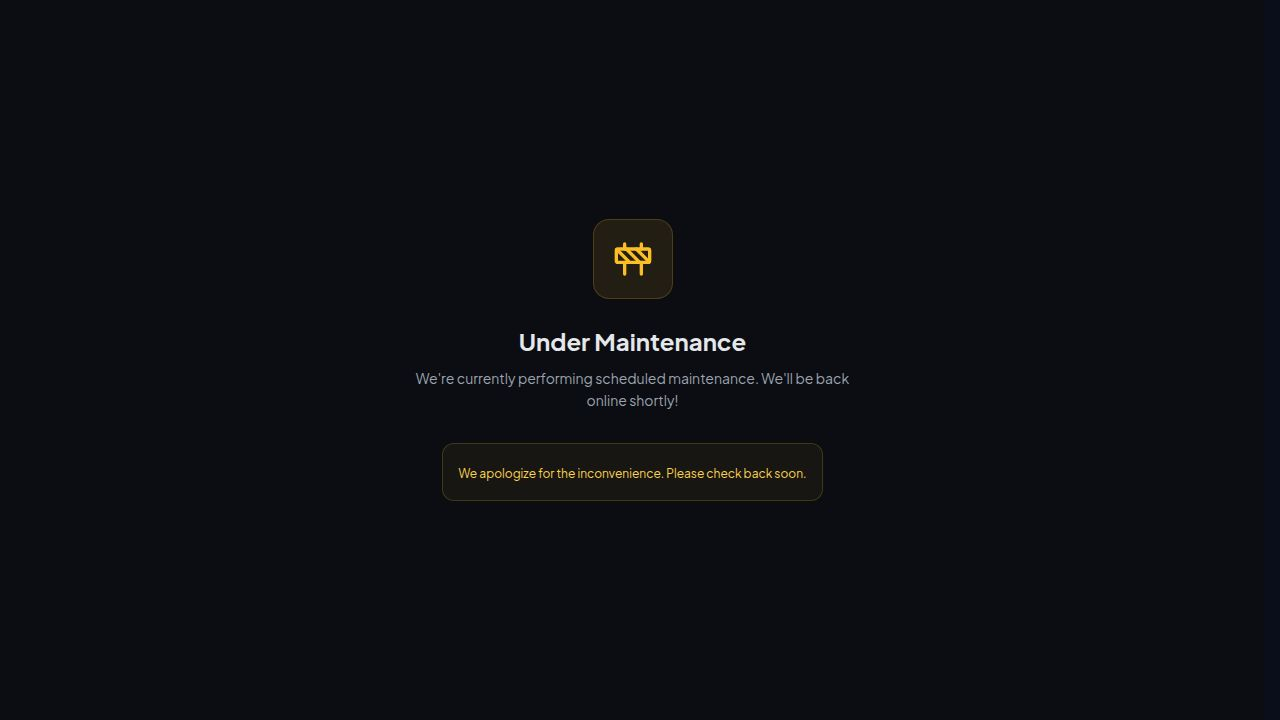
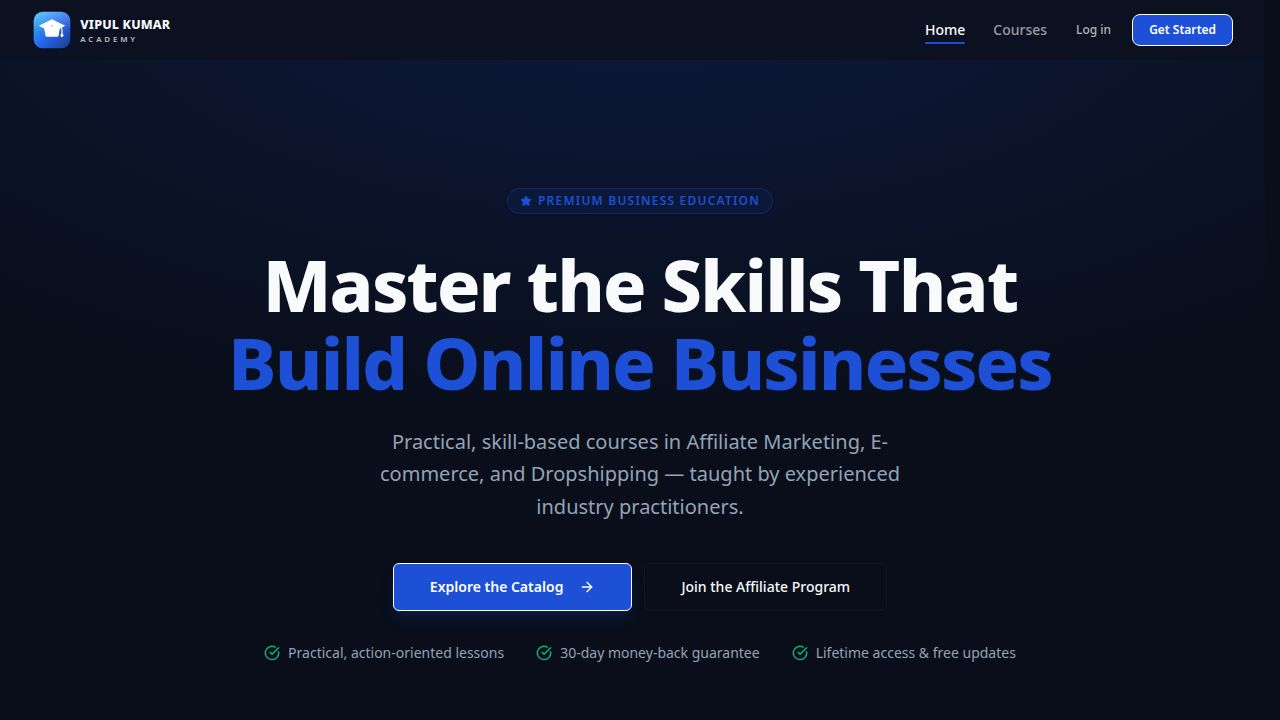
Improve payment processing by ensuring commissions are always recorded and preventing duplicate transactions
Add idempotency guards and adjust commission recording logic in payment processing endpoints to handle various scenarios and prevent duplicate entries.

Replit-Commit-Author: Agent
Replit-Commit-Session-Id: bd173057-3502-44aa-9822-04e49475a39a
Replit-Commit-Checkpoint-Type: full_checkpoint
Replit-Commit-Event-Id: 5e8c8ccf-75a7-4090-9568-b005231e382d
Replit-Commit-Screenshot-Url: https://storage.googleapis.com/screenshot-production-us-central1/b5dfa7cf-5fbc-4e71-b599-c2894df81339/bd173057-3502-44aa-9822-04e49475a39a/jWOYf8j
Replit-Helium-Checkpoint-Created: true

diff --git a/artifacts/api-server/src/routes/payments.ts b/artifacts/api-server/src/routes/payments.ts
@@ -389,6 +389,17 @@ router.post("/verify", requireAuth, async (req, res): Promise<void> => {
   const [payment] = await db.select().from(paymentsTable).where(and(eq(paymentsTable.sessionId, sessionId), eq(paymentsTable.userId, authedReq.user.userId))).limit(1);
   if (!payment) { res.status(404).json({ error: "Payment session not found" }); return; }
 
+  // Idempotency: this exact payment session was already processed (commission,
+  // enrollment, notifications all done). Returning early prevents double-recording
+  // commission / sending duplicate emails on accidental re-verifies.
+  if (payment.status === "completed") {
+    const [ex] = await db.select().from(enrollmentsTable)
+      .where(and(eq(enrollmentsTable.userId, authedReq.user.userId), eq(enrollmentsTable.courseId, payment.courseId)))
+      .limit(1);
+    res.json({ success: true, enrollmentId: ex?.id ?? null, message: "Payment already verified" });
+    return;
+  }
+
   await db.update(paymentsTable).set({ status: "completed", paymentId: `sim_${nanoid(12)}` }).where(eq(paymentsTable.id, payment.id));
   generateGstInvoice(payment.id).catch(() => {});
 
@@ -404,11 +415,14 @@ router.post("/verify", requireAuth, async (req, res): Promise<void> => {
       triggerAutomation("purchase", buyer.id, buyer.email, { name: buyer.name, email: buyer.email, course_name: course?.title ?? "", amount: String(parseFloat(String(payment.amount)).toFixed(2)) }).catch(() => {});
       triggerFunnel("new_purchase", buyer.id, { course_name: course?.title ?? "", amount: String(parseFloat(String(payment.amount)).toFixed(2)) }).catch(() => {});
     }
-    await recordAffiliateCommission(payment.affiliateRef, authedReq.user.userId, payment.courseId, parseFloat(String(payment.amount)));
-    if (payment.courseId) await recordCreatorCommissions(payment, [payment.courseId]);
   } else {
     enrollmentId = existing[0].id;
   }
+  // Affiliate + creator commissions must run on EVERY successful payment, even
+  // when the buyer is already enrolled (e.g. re-purchasing the same course).
+  // Outer status==="completed" guard above prevents double-recording on retries.
+  await recordAffiliateCommission(payment.affiliateRef, authedReq.user.userId, payment.courseId, parseFloat(String(payment.amount)));
+  if (payment.courseId) await recordCreatorCommissions(payment, [payment.courseId]);
 
   if (payment.couponCode) {
     const [coupon] = await db.select().from(couponsTable).where(eq(couponsTable.code, payment.couponCode)).limit(1);
@@ -850,20 +864,23 @@ router.post("/cashfree/verify", async (req, res): Promise<void> => {
       const [existing] = await db.select().from(enrollmentsTable).where(and(eq(enrollmentsTable.userId, payment.userId), eq(enrollmentsTable.courseId, payment.courseId))).limit(1);
       if (!existing) {
         await db.insert(enrollmentsTable).values({ userId: payment.userId, courseId: payment.courseId });
-        const [course] = await db.select().from(coursesTable).where(eq(coursesTable.id, payment.courseId)).limit(1);
-        await db.insert(notificationsTable).values({ userId: payment.userId, title: "Enrollment Confirmed!", message: `You are now enrolled in ${course?.title ?? "the course"}`, type: "success" });
+        const [c0] = await db.select().from(coursesTable).where(eq(coursesTable.id, payment.courseId)).limit(1);
+        await db.insert(notificationsTable).values({ userId: payment.userId, title: "Enrollment Confirmed!", message: `You are now enrolled in ${c0?.title ?? "the course"}`, type: "success" });
         if (payment.couponCode) {
           const [coupon] = await db.select().from(couponsTable).where(eq(couponsTable.code, payment.couponCode)).limit(1);
           if (coupon) await db.update(couponsTable).set({ usedCount: coupon.usedCount + 1 }).where(eq(couponsTable.id, coupon.id));
         }
         const [buyer] = await db.select().from(usersTable).where(eq(usersTable.id, payment.userId)).limit(1);
-        if (buyer && course) {
-          triggerAutomation("purchase", buyer.id, buyer.email, { name: buyer.name, email: buyer.email, course_name: course.title, amount: String(parseFloat(String(payment.amount)).toFixed(2)) }).catch(() => {});
-          triggerFunnel("new_purchase", buyer.id, { course_name: course.title, amount: String(parseFloat(String(payment.amount)).toFixed(2)) }).catch(() => {});
+        if (buyer && c0) {
+          triggerAutomation("purchase", buyer.id, buyer.email, { name: buyer.name, email: buyer.email, course_name: c0.title, amount: String(parseFloat(String(payment.amount)).toFixed(2)) }).catch(() => {});
+          triggerFunnel("new_purchase", buyer.id, { course_name: c0.title, amount: String(parseFloat(String(payment.amount)).toFixed(2)) }).catch(() => {});
         }
-        await recordAffiliateCommission(payment.affiliateRef, payment.userId, payment.courseId, parseFloat(String(payment.amount)));
-        if (payment.courseId) await recordCreatorCommissions(payment, [payment.courseId]);
       }
+      // Commissions run on EVERY successful payment, even repeat purchases of
+      // the same course. The outer "payment already completed" check at the
+      // top of this handler prevents double-recording on duplicate callbacks.
+      await recordAffiliateCommission(payment.affiliateRef, payment.userId, payment.courseId, parseFloat(String(payment.amount)));
+      if (payment.courseId) await recordCreatorCommissions(payment, [payment.courseId]);
 
       const [course] = await db.select().from(coursesTable).where(eq(coursesTable.id, payment.courseId)).limit(1);
       res.json({ success: true, enrolled: true, courseId: payment.courseId, courseTitle: course?.title, amount: parseFloat(String(payment.amount)), currency: "INR" });
@@ -978,9 +995,12 @@ router.post("/cashfree/webhook", async (req, res): Promise<void> => {
         const [coupon] = await db.select().from(couponsTable).where(eq(couponsTable.code, payment.couponCode)).limit(1);
         if (coupon) await db.update(couponsTable).set({ usedCount: coupon.usedCount + 1 }).where(eq(couponsTable.id, coupon.id));
       }
-      await recordAffiliateCommission(payment.affiliateRef, payment.userId, payment.courseId, parseFloat(String(payment.amount)));
-      if (payment.courseId) await recordCreatorCommissions(payment, [payment.courseId]);
     }
+    // Commissions run on EVERY successful payment, even repeat purchases of
+    // the same course. The "payment.status === completed" guard at the top of
+    // this webhook handler prevents double-recording on duplicate webhooks.
+    await recordAffiliateCommission(payment.affiliateRef, payment.userId, payment.courseId, parseFloat(String(payment.amount)));
+    if (payment.courseId) await recordCreatorCommissions(payment, [payment.courseId]);
   }
   res.json({ received: true });
 });
@@ -1345,9 +1365,12 @@ async function completePaytmPayment(payment: typeof paymentsTable.$inferSelect, 
       triggerAutomation("purchase", buyer.id, buyer.email, { name: buyer.name, email: buyer.email, course_name: course.title, amount: String(parseFloat(String(payment.amount)).toFixed(2)) }).catch(() => {});
       triggerFunnel("new_purchase", buyer.id, { course_name: course.title, amount: String(parseFloat(String(payment.amount)).toFixed(2)) }).catch(() => {});
     }
-    await recordAffiliateCommission(payment.affiliateRef, payment.userId, payment.courseId, parseFloat(String(payment.amount)));
-    if (payment.courseId) await recordCreatorCommissions(payment, [payment.courseId]);
   }
+  // Commissions run on EVERY successful payment, even repeat purchases of
+  // the same course. completePaytmPayment is only invoked after the outer
+  // verify/callback guards confirm this payment wasn't already completed.
+  await recordAffiliateCommission(payment.affiliateRef, payment.userId, payment.courseId, parseFloat(String(payment.amount)));
+  if (payment.courseId) await recordCreatorCommissions(payment, [payment.courseId]);
 }
 
 // ── Paytm: Verify Payment status (called by frontend after redirect) ──────────
@@ -1881,10 +1904,13 @@ router.post("/stripe/verify", async (req, res): Promise<void> => {
         amount: String(parseFloat(String(payment.amount)).toFixed(2)),
       }).catch(() => {});
       triggerFunnel("new_purchase", buyer.id, { course_name: course?.title ?? "", amount: String(parseFloat(String(payment.amount)).toFixed(2)) }).catch(() => {});
-      await recordAffiliateCommission(payment.affiliateRef, payment.userId, payment.courseId, parseFloat(String(payment.amount)));
-      if (payment.courseId) await recordCreatorCommissions(payment, [payment.courseId]);
     }
   }
+  // Commissions run on EVERY successful payment, even repeat purchases of
+  // the same course. The "payment.status === completed" guard earlier in this
+  // handler prevents double-recording on duplicate verify calls.
+  await recordAffiliateCommission(payment.affiliateRef, payment.userId, payment.courseId, parseFloat(String(payment.amount)));
+  if (payment.courseId) await recordCreatorCommissions(payment, [payment.courseId]);
 
   if (payment.couponCode) {
     const [coupon] = await db.select().from(couponsTable)